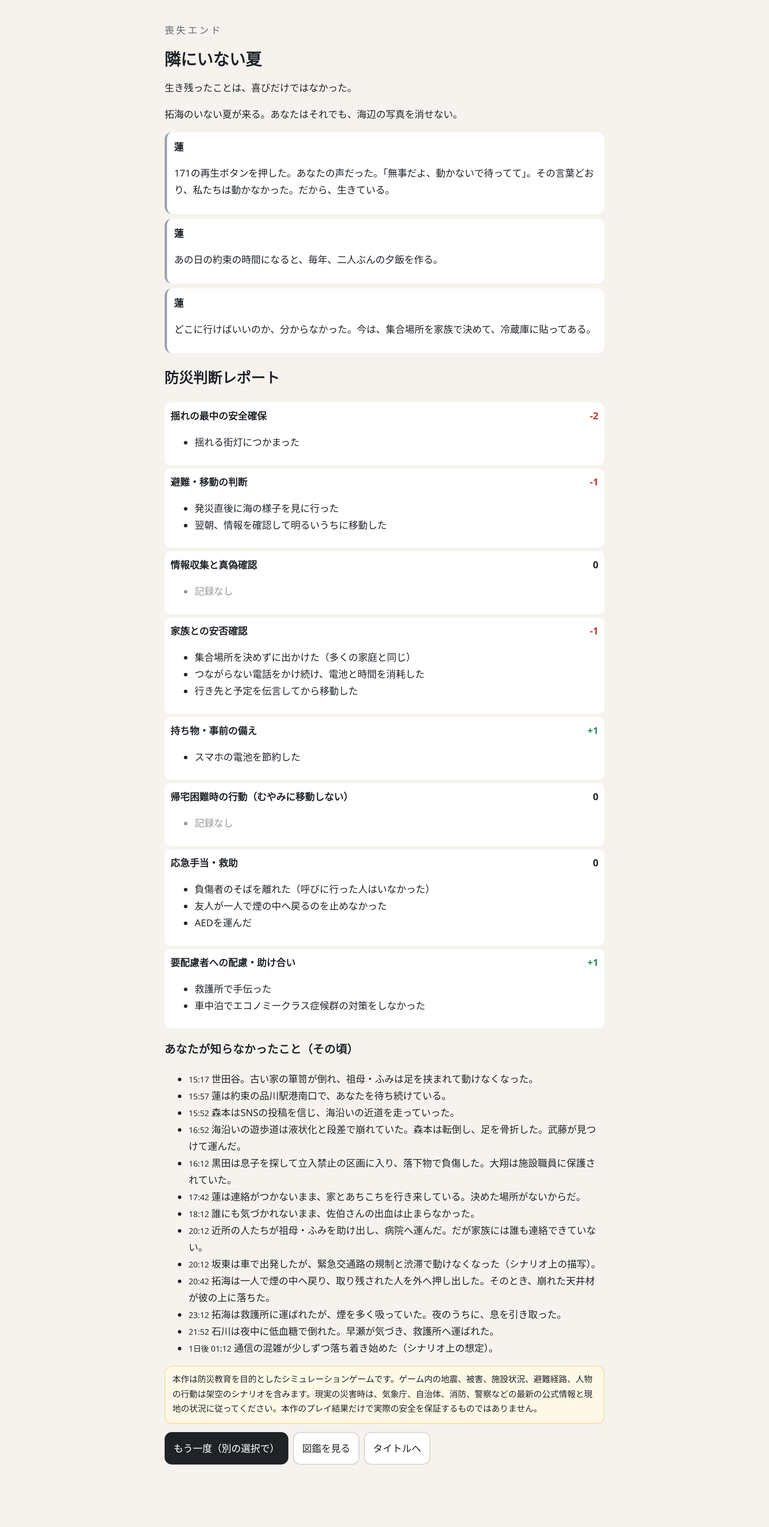
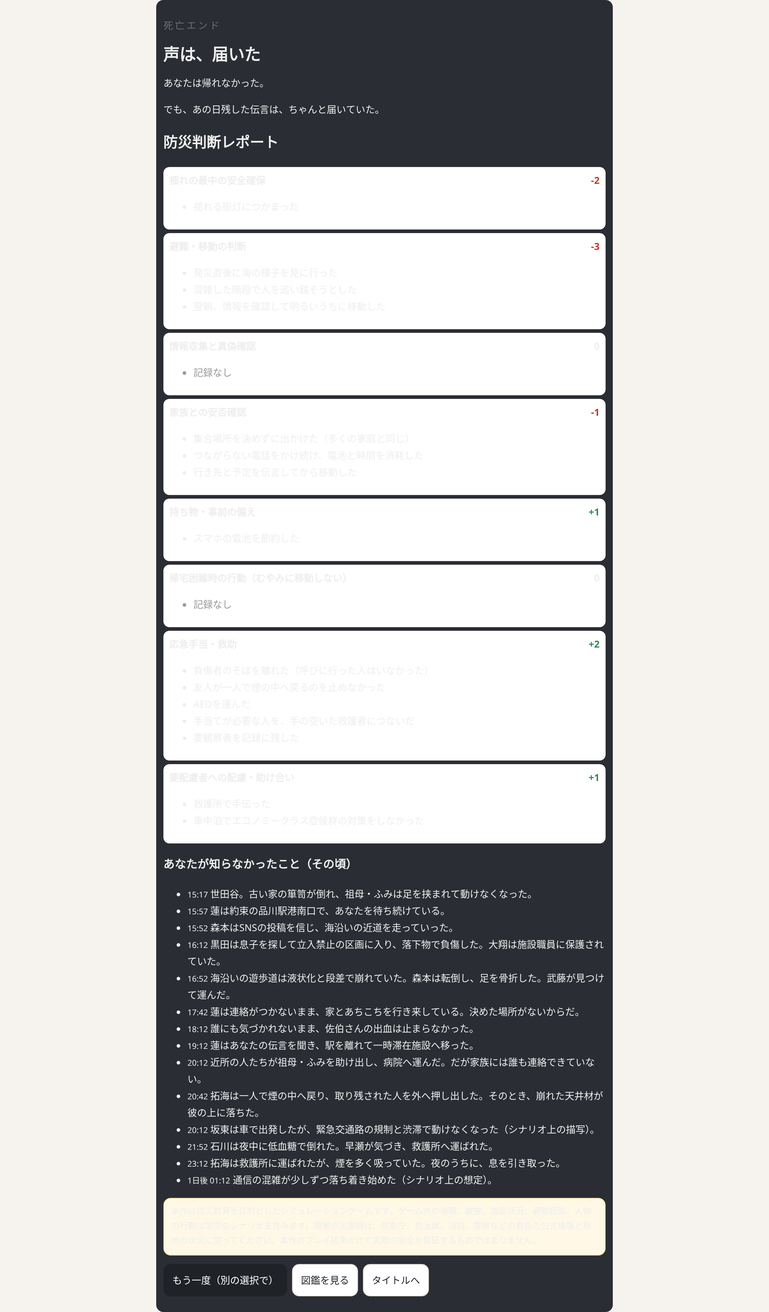
Stage2 playtime expansion: ch3 shelter evening & midnight ensemble, night walk, aid night; fix student takumi intro; COUNTS playtime table

Changed region(s): [[0.1875, 0.0, 0.8125, 1.0], [0.6562, 0.1868, 0.6875, 0.2179]]

diff --git a/src/data/scenes3z.ts b/src/data/scenes3z.ts
@@ -1,0 +1,133 @@
+import type { Scene, Choice } from '../engine/types';
+type L = Array<[string, string]>;
+const S = (id: string, chapter: number, bg: string, lines: L, o: Partial<Scene> = {}): Scene => ({ id, chapter, bg, lines, ...o });
+const C = (id: string, label: string, next: string, o: Partial<Choice> = {}): Choice => ({ id, label, next, ...o });
+
+// ============================================================
+// 第3章 段階拡張（第2段）：一時滞在施設の夕べと深夜の群像／徒歩の夜／救護所の夜
+// ※青海ホールは架空の施設。運営の細部はゲーム内の創作。
+// ============================================================
+export const ch3z: Scene[] = [
+  // ---- 一時滞在施設の夕べ（c3_hall2 → c3_hall3 → c3_hall4 → c3_eve）----
+  S('c3_hall3', 3, 'facility', [
+    ['', '午後六時を過ぎると、ホールの空気が変わった。昼間の興奮が抜けて、代わりに、長い夜を前にした静かな疲れが、床の段ボールの隙間に沈んでいく。'],
+    ['', '配給の列ができた。アルファ化米とクラッカー、五百ミリの水が一本ずつ。宮内が、のどを嗄らしながら同じ説明を繰り返している。'],
+    ['宮内', '数に限りがあります！　まず、お子さん連れの方、ご高齢の方、体調の悪い方から——すみません、順番に、順番にお願いします！'],
+    ['', '列の後ろで、誰かが舌打ちをした。「並んでたのはこっちだろ」。その声は小さかったけれど、ホールの天井は、小さな声ほどよく響かせた。'],
+  ], { onEnter: { time: 40, know: 'k_vulnerable' }, choices: [
+      C('help', '「配るの、手伝います」と宮内の隣に立つ', 'c3_hall4', { icon: '📦', effects: { flag: 'helped_ration', npc: { id: 'miyauchi', trust: 20 }, stamina: -5, report: { cat: 'care', score: 2, note: '配給で、配慮が必要な人を優先する運営を手伝った' } }, result: '手渡すたびに「ありがとう」が返ってくる。百回目くらいで、自分の分を受け取り忘れていたことに気づいた。宮内が、黙って一食、取っておいてくれていた。' }),
+      C('wait', '列の後ろに並び、自分の番を待つ', 'c3_hall4', { icon: '🧍', effects: { mental: 2 }, result: '前に並んでいた老人が、振り返って言った。「年寄りが先だなんて、悪いねえ」。悪いことなんて、ひとつもないのに。' }),
+      C('give', '配給は受け取らず、律のために持ってきたおやつの残りを二人で分ける', 'c3_hall4', { icon: '🍪', if: { item: 'kids_snack' }, effects: { report: { cat: 'care', score: 1, note: '手持ちの食料で済ませ、配給を他の人に回した' }, know: 'k_stock' }, result: '魚のビスケットが、あと六枚。律は数えて、三枚をあなたの手のひらに置いた。朝、何気なくリュックに入れたひと袋が、今日いちばん役に立った「備え」だった。' }),
+      C('give2', '配給は受け取らず、持っている非常用お菓子で済ませる', 'c3_hall4', { icon: '🍫', if: { item: 'snack' }, effects: { report: { cat: 'care', score: 1, note: '手持ちの食料で済ませ、配給を他の人に回した' }, know: 'k_stock' }, result: '鞄の底で潰れかけた、小さな箱。それが、今日いちばん役に立った「備え」だった。' }),
+    ] }),
+  S('c3_hall4', 3, 'facility', [
+    ['', '夜八時。ホールのトイレの前に、長い列ができていた。断水している、と誰かが言う。流せない便器の前で、職員が凝固剤の袋を配りはじめた（ゲーム内の施設対応）。'],
+    ['', '入口の掲示板には、日本語の手書きの張り紙だけが増えていく。「トイレの使い方」「消灯 22:00」「携帯の充電は一人15分」。'],
+    ['リン', 'すみません、これ、英語とベトナム語と……あと、やさしい日本語にしたいんです。誰か、字がきれいな人、いませんか。'],
+    ['', 'マジックペンを握った留学生が、困ったように笑っていた。名札に「グエン・リン　ボランティア」とある。'],
+  ], { onEnter: { time: 40, know: 'k_infection' }, choices: [
+      C('write', '「やさしい日本語なら書けます」と一緒に張り紙を作る', 'c3_eve', { icon: '✍', effects: { flag: 'helped_lin', npc: { id: 'lin', trust: 25 }, know: 'k_foreign', report: { cat: 'care', score: 2, note: '多言語・やさしい日本語の掲示づくりを手伝った' } }, result: '「流さないでください」を「ながさない　で　ください」に。「凝固剤」を「かためる　くすり」に。言葉を短くするほど、伝えたいことがはっきりしていく。リンは書き上がった紙を見て、「これ、わたしのおかあさんでも読めます」と言った。' }),
+      C('wash', '列に並び、ウェットティッシュで手を拭いてから食事にする', 'c3_eve', { icon: '🧻', effects: { report: { cat: 'stay', score: 1, note: '避難所で手指の衛生に気を配った' } } }),
+      C('skip', '水を飲むのを控えて、トイレに行かずに済ませる', 'c3_eve', { icon: '🚱', effects: { water: -10, risk: { kind: 'exhaustion', level: 8, label: 'トイレを我慢して水分を控え、体調を崩しかけた' }, know: 'k_dvt', report: { cat: 'stay', score: -1, note: 'トイレを避けるために水分を控えた' } }, result: '喉が渇く。けれど、あの列にもう一度並ぶのかと思うと、ペットボトルに手が伸びなかった。——それが一番危ないのだと、あとで早瀬に叱られることになる。' }),
+    ] }),
+
+  // ---- 深夜の群像（c3_eve_end / c3_takumi → c3_mid → c3_night）----
+  S('c3_mid', 3, 'night_shelter', [
+    ['', '消灯。非常灯の緑だけが、ホールの四隅に灯っている。数百人が横になっているのに、眠っている人はほとんどいない。寝返りの音、咳、押し殺した泣き声、誰かのスマホの小さな光。'],
+    ['', '眠れない人たちは、廊下や入口の風除室に、ひとり、またひとりと集まってくる。夜は長い。少しだけ、誰かの隣にいてもいい。'],
+  ], { choices: [
+      C('lin', '入口で、毛布にくるまって座っているリンの隣へ', 'c3_mid_lin', { icon: '🌏', if: { notFlag: 'mid_lin', npcAlive: 'lin' }, effects: { flag: 'mid_lin', time: 15 } }),
+      C('bando', '喫煙所の跡で、火のない煙草をくわえている坂東の隣へ', 'c3_mid_bando', { icon: '🚬', if: { flag: 'calmed_bando', notFlag: 'mid_bando', npcAlive: 'bando' }, effects: { flag: 'mid_bando', time: 15 } }),
+      C('emily', '窓際で、スマホの航空会社のページを何度も更新しているエミリーの隣へ', 'c3_mid_emily', { icon: '✈', if: { notFlag: 'mid_emily', npcAlive: 'emily' }, effects: { flag: 'mid_emily', time: 15 } }),
+      C('onodera', '授乳スペースの仕切りの外で、赤ちゃんをあやしている小野寺さんに声をかける', 'c3_mid_onodera', { icon: '🍼', if: { notFlag: 'mid_onodera', npcAlive: 'onodera' }, effects: { flag: 'mid_onodera', time: 15 } }),
+      C('ishikawa', '救護所から戻ってきた石川さんの様子を見に行く', 'c3_mid_ishikawa', { icon: '💉', if: { notFlag: 'mid_ishikawa', npcAlive: 'ishikawa' }, effects: { flag: 'mid_ishikawa', time: 15 } }),
+      C('sleep', '毛布をかぶり、目を閉じる', 'c3_night', { icon: '🌙' }),
+    ] }),
+  S('c3_mid_lin', 3, 'night_shelter', [
+    ['リン', 'あ……こんばんは。ねむれないですね。'],
+    ['リン', 'わたし、ハノイから来て、三年です。地震、はじめてじゃないです。日本に来てから、小さいのは何回も。でも、今日のは……'],
+    ['', 'リンは言葉を探して、やめた。代わりに、膝の上のスマホを見せてくれた。母親からの着信が、四十件以上並んでいる。'],
+    ['リン', 'ベトナムのニュースで、「東京が大変」って。おかあさん、ずっと電話してくる。でも、わたし、ここで通訳してたら、出られなくて。……さっき、やっと話しました。泣いてました。帰ってきなさい、って。'],
+    ['リン', '奨学金、来年もらえるか、わからないんです。帰ったら、たぶん、もう戻れない。でも、今日、ここで、わたしの言葉が役に立った。それが、すごく……うれしかった。うれしいのが、ちょっと、悪い気がして。'],
+  ], { choices: [
+      C('ok', '「悪くない。今日、ここで助かった人がいる」', 'c3_mid', { icon: '🤲', effects: { npc: { id: 'lin', trust: 20, flag: 'encouraged' }, mental: 4 }, result: 'リンは毛布で顔を半分隠して、「にほんごの『おつかれさま』、いいことばですね」と言った。' }),
+      C('quiet', '黙って、自分の毛布の端をリンの肩にかける', 'c3_mid', { icon: '🧣', effects: { npc: { id: 'lin', trust: 10 } } }),
+    ] }),
+  S('c3_mid_bando', 3, 'night_shelter', [
+    ['坂東', '……なんだ、あんたか。火はつけてねえよ。くわえてるだけだ。'],
+    ['坂東', '女房がな、去年から入院してんだ。肺だよ。俺が煙草やめねえから、ってずっと言われててさ。やめたんだよ、入院してから。なのに、こうやって、くわえてると落ち着く。'],
+    ['', '坂東は、使い古した携帯電話を開いた。待受は、病院の中庭で撮ったらしい、車椅子の女性の写真だった。'],
+    ['坂東', '病院からは、さっき連絡来た。患者は全員無事、だと。……無事、だってよ。あれだけ怒鳴って、車で突っ込もうとして、結局、俺が行ってもなんにもできなかったんだな。'],
+    ['坂東', 'あんたが止めてくれなかったら、俺、今ごろ渋滞の中で、救急車の道ふさいでたよ。女房に、一生怒られるとこだった。'],
+  ], { onEnter: { npc: { id: 'bando', trust: 15 }, mental: 3 }, next: 'c3_mid' }),
+  S('c3_mid_emily', 3, 'night_shelter', [
+    ['エミリー', '"Cancelled"……. My flight, tomorrow morning. Cancelled.'],
+    ['エミリー', 'Sorry. Perth. My mum is there. She worries a lot. I told her, "Japan is very safe, don\'t worry." Haha.'],
+    ['', 'エミリーは笑ってみせたが、目は笑っていなかった。窓の外、湾の向こうの空が、ぼんやり赤い。'],
+    ['エミリー', 'Today, many people helped me. They did not speak English, but… they pointed, they showed me, they gave me water. I will remember this. Not only the shaking. This, too.'],
+  ], { choices: [
+      C('embassy', '大使館や公式の多言語情報の探し方を、一緒に確かめる', 'c3_mid', { icon: '🌐', if: { minBattery: 10 }, effects: { battery: -3, helped: 'emily', npc: { id: 'emily', trust: 20, flag: 'info_ok' }, know: 'k_foreign', report: { cat: 'care', score: 1, note: '外国人旅行者と公式の多言語情報を確認した' } }, result: '観光客向けの公式の情報ページを開くと、エミリーは小さく息を吐いた。「OK. I can read this. Thank you.」' }),
+      C('listen', '"I\'ll remember, too." とだけ返す', 'c3_mid', { icon: '🤝', effects: { npc: { id: 'emily', trust: 10 }, mental: 3 } }),
+    ] }),
+
+  S('c3_mid_onodera', 3, 'night_shelter', [
+    ['', '段ボールの仕切りの外で、小野寺さんが、赤ちゃんを縦に抱いて小さく揺れていた。前へ、後ろへ。時計の振り子のように。'],
+    ['小野寺', '……やっと寝てくれそうで。中だと、泣き声で、まわりの方を起こしちゃうから。'],
+    ['小野寺', '夫は、今日、仕事で千葉なんです。さっき、やっと「無事」って一言だけ。……一言だけでも、こんなに違うんですね。'],
+    ['', '赤ちゃんの拳が、母親の襟元をきゅっとつかんでいる。眠っていても、離さない握り方だった。'],
+  ], { alt: [{ if: { notFlag: 'helped_onodera_any' }, goto: 'c3_mid_onodera2' }], onEnter: { npc: { id: 'onodera', trust: 10 }, mental: 3 }, next: 'c3_mid' }),
+  S('c3_mid_onodera2', 3, 'night_shelter', [
+    ['', '段ボールの仕切りの外で、小野寺さんが、赤ちゃんを縦に抱いて小さく揺れていた。前へ、後ろへ。時計の振り子のように。'],
+    ['小野寺', '……すみません、うるさいですよね。仕切りの中、もういっぱいで。'],
+    ['', 'ホールの奥では、誰かが寝返りを打つたびに、こちらを振り返る気配がした。迷惑だと思っている人ばかりではない。それでも、母親には、すべての視線が責める目に見えるのだろう。'],
+  ], { choices: [
+      C('staff', '職員に、乳児連れの人が休める場所を相談する', 'c3_mid', { icon: '🙋', effects: { helped: 'onodera', npc: { id: 'onodera', trust: 20 }, know: 'k_privacy', report: { cat: 'care', score: 2, note: '乳児連れの人が休める場所を運営に相談した' } }, result: '宮内は少し考えて、職員控室の隣の小部屋を開けてくれた。「本当はだめなんですけど……今夜だけ」。そういう「今夜だけ」が、避難所をかろうじて人の場所にしている。' }),
+      C('ok', '「ぜんぜん。赤ちゃんの声、ちょっと安心します」と言う', 'c3_mid', { icon: '🤲', effects: { npc: { id: 'onodera', trust: 10 }, mental: 2 } }),
+    ] }),
+  S('c3_mid_ishikawa', 3, 'night_shelter', [
+    ['', '石川さんは、壁にもたれて座っていた。昼間より、少しだけ顔色が戻っている。'],
+    ['石川', '救護所で、看護師さんが医療チームにつないでくれて。……お薬手帳、スマホに写真で入れておいて、本当によかった。名前も量も、すぐ伝わったから。'],
+    ['石川', '主治医にはずっと言われてたの。「薬は、一日分でいいから、いつも持ち歩いて」って。分かってたのよ。分かってたのに、今日に限って、フードコートの椅子に置いて。'],
+    ['', '石川さんは、空っぽのハンドバッグを膝の上でたたんだ。何度も、何度も、角をそろえるように。'],
+  ], { alt: [{ if: { notFlag: 'ishikawa_cared' }, goto: 'c3_mid_ishikawa2' }], onEnter: { know: 'k_meds', npc: { id: 'ishikawa', trust: 10 } }, next: 'c3_mid' }),
+  S('c3_mid_ishikawa2', 3, 'night_shelter', [
+    ['', '石川さんは、壁にもたれて座っていた。額に、うっすらと汗。'],
+    ['石川', '……大丈夫。朝まで、たぶん。'],
+    ['', '「たぶん」。今日いちばん聞いた言葉で、今日いちばん信用できない言葉だった。'],
+  ], { choices: [
+      C('aid', '救護所と職員に、持病の薬がないことを伝える', 'c3_mid', { icon: '💉', effects: { helped: 'ishikawa', flag: 'ishikawa_cared', npc: { id: 'ishikawa', trust: 25 }, know: ['k_meds', 'k_vulnerable'], report: { cat: 'care', score: 3, note: '持病の薬を失った人を医療につないだ' } }, result: '十五分後、早瀬が懐中電灯を手にやってきた。「どうしてもっと早く言わないの」。叱る声が、ひどくやさしかった。' }),
+      C('water', '水を渡し、朝まで様子を見ることにする', 'c3_mid', { icon: '💧', effects: { npc: { id: 'ishikawa', trust: 5 }, mental: -3 } }),
+    ] }),
+
+  // ---- 徒歩の夜（c3_walk2 → c3_walk2c → c3_walk3）----
+  S('c3_walk2c', 3, 'walk_night', [
+    ['', '光のない街を、人の列だけが流れていく。誰もしゃべらない。靴底がアスファルトを擦る音が、何千と重なって、遠い雨の音のように聞こえた。'],
+    ['', '街灯の消えた交差点では、警察官が赤い誘導灯を振っていた。信号が消えると、街はこんなにも、人の手でしか動かなくなる。'],
+    ['', '歩道の縁石に、年配の女性が一人、座り込んでいた。薄いカーディガン一枚。肩が小刻みに震えている。列は、彼女を避けるように、少しだけ膨らんで流れていく。'],
+    ['女性', '……大丈夫、大丈夫よ。ちょっと休んでるだけ。もう少ししたら、また歩くから。'],
+  ], { fx: 'dark', onEnter: { time: 30, know: 'k_hypothermia' }, choices: [
+      C('blanket', '自分の毛布かアルミシートを渡し、近くの支援拠点まで一緒に歩く', 'c3_walk3', { icon: '🧣', if: { item: 'blanket' }, effects: { time: 30, stamina: -6, report: { cat: 'care', score: 3, note: '夜間徒歩の途中で冷えていた高齢者を支援拠点につないだ' } }, result: '女性は「孫の家まで行くつもりだったの」と言った。支援拠点のコンビニの店員が、奥の椅子をすすめてくれた。別れぎわ、女性はあなたの手を、両手で長いこと握っていた。' }),
+      C('tell', '警察官に女性のことを伝えてから、先へ進む', 'c3_walk3', { icon: '👮', effects: { time: 10, report: { cat: 'care', score: 2, note: '動けなくなった人を、その場の警察官につないだ' } }, result: '警察官は誘導灯を同僚に預け、女性のもとへしゃがみ込んだ。振り返ると、二人の姿はもう人の列に隠れていた。' }),
+      C('pass', '「大丈夫」という言葉を信じて、通り過ぎる', 'c3_walk3', { icon: '🚶', effects: { mental: -8 }, result: '十歩、二十歩。振り返らなかった。その「大丈夫」は、たぶん、あなたが今日、家族に送った「大丈夫」と同じ種類のものだった。' }),
+    ] }),
+
+  // ---- 救護所の夜（c3_aid / c3p_aid → c3_aid_mid → c3_aid2）----
+  S('c3_aid_mid', 3, 'aid', [
+    ['', '夜十時。ブルーシートの上は、いつのまにか満員になっていた。投光器の白い光が、人の顔を一様に青ざめて見せる。'],
+    ['', '腕に火傷を負った男性が運ばれてきた。倉庫の火を消そうとして、と付き添いが言う。早瀬は別の患者の止血で手が離せない。'],
+    ['早瀬', '水！　きれいな水で、とにかく冷やして。服が貼りついてたら、無理にはがさないで！'],
+    ['', '手元のペットボトルは、今夜、救護所で飲むための水だった。'],
+  ], { onEnter: { time: 60, know: 'k_burn' }, choices: [
+      C('cool', '飲み水のボトルを開け、火傷を冷やし続ける', 'c3_aid_mid2', { icon: '💧', effects: { water: -15, flag: 'cooled_burn', npc: { id: 'hayase', trust: 10 }, report: { cat: 'aid', score: 2, note: '火傷をきれいな水で冷やす手当てを手伝った' } }, result: '男性は歯を食いしばっていたが、やがて肩の力が抜けた。「……楽になった」。空になったボトルが三本、足元に転がった。（水の少ない状況での判断は要監修）' }),
+      C('call', '大川に知らせ、手が空く人を呼びに走る', 'c3_aid_mid2', { icon: '📣', effects: { stamina: -5, report: { cat: 'aid', score: 1, note: '手当てが必要な人を、手の空いた救護者につないだ' } } }),
+    ] }),
+  S('c3_aid_mid2', 3, 'aid', [
+    ['', '深夜一時。少し落ち着いた救護所の隅で、ブルーシートに座ったまま動かない老人がいた。昼から、ずっと同じ姿勢だという。'],
+    ['早瀬', 'ふくらはぎ、痛くないですか。……ちょっと、足首を回してみましょうか。お水も、少しずつ。'],
+    ['', '早瀬は老人の足をさすりながら、こちらを見ずに言った。'],
+    ['早瀬', '狭いところでじっとしてると、脚に血の塊ができることがあるの。避難所で、あとから亡くなる人がいる。地震で助かったのに、よ。だから、ここでは「休んで」と「動いて」を、両方言うの。'],
+  ], { onEnter: { time: 60, know: 'k_dvt' }, choices: [
+      C('walk', '老人に肩を貸し、救護所の周りをゆっくり一周する', 'c3_aid2', { icon: '🚶', effects: { npc: { id: 'hayase', trust: 10 }, report: { cat: 'care', score: 1, note: '長時間同じ姿勢の高齢者の運動を手伝った' } }, result: '一周するのに十五分かかった。老人は「若いころは、この埋立地を一日に何往復もしたもんだ」と笑った。' }),
+      C('note', '記録に「長時間同姿勢・要観察」と書き添える', 'c3_aid2', { icon: '📝', effects: { report: { cat: 'aid', score: 1, note: '要観察者を記録に残した' } } }),
+    ] }),
+];

diff --git a/src/data/scenes2.ts b/src/data/scenes2.ts
@@ -50,10 +50,10 @@ export const ch3: Scene[] = [
     ['小野寺', '（赤ちゃんを抱いて）すみません……ミルクのお湯って、どこかに……'],
     ['石川', '（青い顔で）……薬、モールに置いてきてしまって。'],
   ], { choices: [
-      C('emily', 'エミリーとリンをつなぎ、多言語の公式情報を一緒に探す', 'c3_eve', { icon: '🌏', effects: { helped: 'emily', time: 30, npc: [{ id: 'emily', trust: 30 }, { id: 'lin', trust: 20 }], know: 'k_foreign', report: { cat: 'care', score: 2, note: '外国人旅行者に情報支援をつないだ' } } }),
-      C('mana', '小野寺さんのために授乳・休憩スペースを職員に頼む', 'c3_eve', { icon: '🍼', effects: { helped: 'onodera', time: 30, npc: { id: 'onodera', trust: 30 }, know: ['k_vulnerable', 'k_privacy'], report: { cat: 'care', score: 2, note: '乳児連れの母親のスペース確保を運営に頼んだ' } } }),
-      C('ishikawa', '石川さんの持病を職員と救護所に伝える', 'c3_eve', { icon: '💉', effects: { helped: 'ishikawa', time: 30, npc: { id: 'ishikawa', trust: 30 }, know: ['k_meds', 'k_vulnerable'], report: { cat: 'care', score: 3, note: '持病の薬を失った人を医療につないだ' } } }),
-      C('rest', '自分も限界だ。横になる', 'c3_eve', { icon: '😴', effects: { stamina: 20, time: 30 } }),
+      C('emily', 'エミリーとリンをつなぎ、多言語の公式情報を一緒に探す', 'c3_hall3', { icon: '🌏', effects: { helped: 'emily', time: 30, npc: [{ id: 'emily', trust: 30 }, { id: 'lin', trust: 20 }], know: 'k_foreign', report: { cat: 'care', score: 2, note: '外国人旅行者に情報支援をつないだ' } } }),
+      C('mana', '小野寺さんのために授乳・休憩スペースを職員に頼む', 'c3_hall3', { icon: '🍼', effects: { helped: 'onodera', flag: 'helped_onodera_any', time: 30, npc: { id: 'onodera', trust: 30 }, know: ['k_vulnerable', 'k_privacy'], report: { cat: 'care', score: 2, note: '乳児連れの母親のスペース確保を運営に頼んだ' } } }),
+      C('ishikawa', '石川さんの持病を職員と救護所に伝える', 'c3_hall3', { icon: '💉', effects: { helped: 'ishikawa', flag: 'ishikawa_cared', time: 30, npc: { id: 'ishikawa', trust: 30 }, know: ['k_meds', 'k_vulnerable'], report: { cat: 'care', score: 3, note: '持病の薬を失った人を医療につないだ' } } }),
+      C('rest', '自分も限界だ。横になる', 'c3_hall3', { icon: '😴', effects: { stamina: 20, time: 30 } }),
     ] }),
   S('c3_night', 3, 'night_shelter', [
     ['', '深夜。また揺れる。余震だ。誰かが小さく悲鳴を上げ、すぐに静かになった。'],
@@ -83,15 +83,17 @@ export const ch3: Scene[] = [
       C('turn', 'これは無理だ。一時滞在施設へ引き返す', 'c3_hall', { icon: '↩', effects: { unflag: 'walking', loc: 'aomi_hall', time: 50, flag: ['stay_decided', 'turned_back'], report: { cat: 'stay', score: 2, note: '徒歩帰宅の途中で状況を見て引き返した' } } }),
     ] }),
   S('c3_walk2', 3, 'walk_night', [
-    ['', '日が落ちた。停電で信号も街灯も消えている。'],
+    ['', 'すっかり暗くなった。停電で信号も街灯も消えている。'],
     ['', 'コンビニの前に「災害時帰宅支援ステーション」のステッカー（ゲーム内の架空店舗）。水道水とトイレを貸している。'],
   ], { fx: 'dark', onEnter: { time: 120, know: 'k_walk_home' }, choices: [
-      C('rest', '水をもらい、トイレを借りて休む', 'c3_walk3', { icon: '🚰', effects: { water: 30, stamina: 15, time: 40, report: { cat: 'evac', score: 1, note: '徒歩中に支援拠点で休息と水分補給をした' } } }),
-      C('push', '休まず歩き続ける', 'c3_walk3', { icon: '🏃', effects: { time: 10, risk: { kind: 'exhaustion', level: 14, label: '暗い歩道の段差で足をひねった' }, report: { cat: 'evac', score: -1, note: '夜間に休まず歩き続けた' } } }),
+      C('rest', '水をもらい、トイレを借りて休む', 'c3_walk2c', { icon: '🚰', effects: { water: 30, stamina: 15, time: 40, report: { cat: 'evac', score: 1, note: '徒歩中に支援拠点で休息と水分補給をした' } } }),
+      C('push', '休まず歩き続ける', 'c3_walk2c', { icon: '🏃', effects: { time: 10, risk: { kind: 'exhaustion', level: 14, label: '暗い歩道の段差で足をひねった' }, report: { cat: 'evac', score: -1, note: '夜間に休まず歩き続けた' } } }),
     ] }),
   S('c3_walk3', 3, 'walk_night', [
     ['', '運河を渡る橋の手前。向こう岸の空が赤い。火災の煙が、風に乗ってこちらへ流れてくる。'],
-    ['', '「この先、通れるらしい」と誰かが言う。根拠は分からない。'],
+    ['', '橋の上には、人が詰まっていた。立ち止まった人と、引き返してくる人と、それでも進もうとする人。三つの流れが、欄干のあいだでぶつかり合っている。'],
+    ['', '「この先、通れるらしい」と誰かが言う。根拠は分からない。別の誰かが「向こうは燃えてるって」と言う。それにも、根拠はない。'],
+    ['', 'スマホの電池は、もう心もとない。明るい情報も暗い情報も、同じ小さな画面の中で、同じ大きさの文字で流れていく。いま、この橋の上で、正しいことを知っている人は、たぶん一人もいない。'],
   ], { fx: 'dark', onEnter: { time: 60, know: 'k_smoke' }, choices: [
       C('detour', '風上へ大きく迂回する（2時間余計にかかる）', 'c4_dawn_walk', { icon: '↪', effects: { time: 120, stamina: -12, water: -10, report: { cat: 'evac', score: 2, note: '火災の煙を避けて迂回した' } } }),
       C('through', '煙の中を突っ切る', 'c4_dawn_walk', { icon: '🔥', effects: { time: 30, risk: { kind: 'fire', level: 30, label: '煙と熱気の中を通過した' }, report: { cat: 'evac', score: -3, note: '火災の煙の中を突っ切った' } } }),
@@ -101,11 +103,12 @@ export const ch3: Scene[] = [
   S('c3_aid', 3, 'aid', [
     ['', '臨時の救護所。ブルーシートの上に負傷者が並ぶ。'],
     ['早瀬', 'ここでは、重い人から順に診ます。あなたは記録と水をお願い。'],
-    ['', '運ばれてきた男性は、数時間、瓦礫に脚を挟まれていたという。'],
+    ['', '投光器が一台、発電機の低い唸りとともに点いた。白い光の輪の中だけが、世界のすべてみたいに見える。輪の外の暗がりから、次の担架が、また次の担架が、現れては光の中に置かれていく。'],
+    ['', '運ばれてきた男性は、数時間、瓦礫に脚を挟まれていたという。顔色は悪くない。本人も「平気だ、歩ける」と言う。だからこそ怖いのだ、と早瀬の目が言っていた。'],
     ['大川', '（消防隊員・架空）挟まれていた時間が長い人は、救出後に急変することがある。医療につなぐまで目を離さないで。'],
   ], { alt: [{ if: { preset: 'parent' }, goto: 'c3p_aid' }], onEnter: { know: ['k_crush', 'k_119', 'k_aed'], flag: 'supplied', water: 20, time: 120 }, choices: [
-      C('record', '負傷者の名前と状態を記録し、家族の問い合わせに備える', 'c3_aid2', { icon: '📝', effects: { report: { cat: 'aid', score: 2, note: '救護所で記録係を務めた' }, npc: { id: 'hayase', trust: 15 } } }),
-      C('aed', 'AEDを取りに走る', 'c3_aid2', { icon: '⚡', effects: { stamina: -8, report: { cat: 'aid', score: 2, note: 'AEDを運んだ' }, flag: 'aed_run' } }),
+      C('record', '負傷者の名前と状態を記録し、家族の問い合わせに備える', 'c3_aid_mid', { icon: '📝', effects: { report: { cat: 'aid', score: 2, note: '救護所で記録係を務めた' }, npc: { id: 'hayase', trust: 15 } } }),
+      C('aed', 'AEDを取りに走る', 'c3_aid_mid', { icon: '⚡', effects: { stamina: -8, report: { cat: 'aid', score: 2, note: 'AEDを運んだ' }, flag: 'aed_run' } }),
     ] }),
   S('c3_aid2', 3, 'aid', [
     ['', '夜明け前。早瀬が、はじめて座り込んだ。'],

diff --git a/src/data/scenes3.ts b/src/data/scenes3.ts
@@ -97,15 +97,15 @@ export const ch3x: Scene[] = [
   // --- 友人・拓海の夜（生存して一緒にいる場合） ---
   R('c3_eve_end', 3, [
     { if: { npcAlive: 'friend', notFlag: ['friend_left', 'takumi_talk'] }, goto: 'c3_takumi' },
-    { if: {}, goto: 'c3_night' },
+    { if: {}, goto: 'c3_mid' },
   ]),
   S('c3_takumi', 3, 'night_shelter', [
     ['', '自販機の明かりだけが点いている廊下。拓海が、売り切れの赤いランプを見上げていた。'],
     ['拓海', 'なあ。……俺、来月から大阪なんだ。言うタイミング、ずっと探してて。今日の夜、海見ながら言うつもりだった。'],
     ['拓海', 'で、今日これだろ。昼に煙の中に戻ろうとしたの、たぶん、何かしてから行きたかったんだよな。何もしないで東京を出るのが、いやで。'],
   ], { choices: [
-      C('go', '「行けよ。で、向こうで、今日のことを誰かに話せ」', 'c3_night', { icon: '✈', effects: { flag: ['takumi_talk', 'takumi_blessed'], npc: { id: 'friend', trust: 20 }, mental: 6 }, result: '拓海は鼻をすすって、「お前、たまにいいこと言うよな」と笑った。' }),
-      C('quiet', '何も言わず、自販機の前に並んで座る', 'c3_night', { icon: '🌌', effects: { flag: 'takumi_talk', npc: { id: 'friend', trust: 10 }, mental: 4 }, result: '余震が来て、二人同時に壁に手をついた。それがなぜか可笑しくて、少しだけ笑った。' }),
+      C('go', '「行けよ。で、向こうで、今日のことを誰かに話せ」', 'c3_mid', { icon: '✈', effects: { flag: ['takumi_talk', 'takumi_blessed'], npc: { id: 'friend', trust: 20 }, mental: 6 }, result: '拓海は鼻をすすって、「お前、たまにいいこと言うよな」と笑った。' }),
+      C('quiet', '何も言わず、自販機の前に並んで座る', 'c3_mid', { icon: '🌌', effects: { flag: 'takumi_talk', npc: { id: 'friend', trust: 10 }, mental: 4 }, result: '余震が来て、二人同時に壁に手をついた。それがなぜか可笑しくて、少しだけ笑った。' }),
     ] }),
 
   // --- 徒歩：プリセット別の入口 ---
@@ -129,7 +129,7 @@ export const ch3x: Scene[] = [
   R('c3_walk2b', 3, [
     { if: { preset: 'worker', notFlag: 'calmed_bando' }, goto: 'c3w_bando' },
     { if: { preset: 'worker' }, goto: 'c3w_station' },
-    { if: {}, goto: 'c3_walk3' },
+    { if: {}, goto: 'c3_walk2' },
   ]),
   S('c3w_bando', 3, 'walk_night', [
     ['', '東雲のあたり。動かない車の列が、赤いテールランプの川になっている。'],
@@ -144,7 +144,7 @@ export const ch3x: Scene[] = [
     ['', '辰巳を抜けると、道は運河にぶつかる。橋のたもとに、人が小さな群れになって座り込んでいた。'],
     ['', '誰かがラジオを持っている。音量を絞った声が、知らない区の火災を読み上げる（ゲーム内の架空の放送）。'],
     ['', '南砂まで、あと数キロ。地図を見なくても分かる距離に来て、足が初めて止まった。ここまで、千夏と陽菜のことしか考えていなかった。この先にある自分の街が、どうなっているのかを、考えるのが怖かった。'],
-  ], { fx: 'dark', onEnter: { time: 20 }, next: 'c3_walk3' }),
+  ], { fx: 'dark', onEnter: { time: 20 }, next: 'c3_walk2' }),
 
   // --- 救護所：父親は律を連れている ---
   S('c3p_aid', 3, 'aid', [
@@ -152,8 +152,8 @@ export const ch3x: Scene[] = [
     ['早瀬', '子連れで手伝うの？　……じゃあ、ここから動かずにできることを。記録と、水の配布。お子さんから目を離さない範囲で。'],
     ['大川', '（消防隊員・架空）挟まれていた時間が長い人は、救出後に急変することがある。医療につなぐまで目を離さないで。'],
   ], { onEnter: { know: ['k_crush', 'k_119', 'k_aed'], flag: 'supplied', water: 20, time: 120 }, choices: [
-      C('record', '律の隣で、負傷者の名前と状態を記録する', 'c3_aid2', { icon: '📝', effects: { report: { cat: 'aid', score: 2, note: '子どもから目を離さずにできる救護の手伝いをした' }, npc: { id: 'hayase', trust: 15 } } }),
-      C('rest', '律が起きたときにそばにいるため、横で休む', 'c3_aid2', { icon: '😴', effects: { stamina: 15, npc: { id: 'fam2', trust: 10 } } }),
+      C('record', '律の隣で、負傷者の名前と状態を記録する', 'c3_aid_mid', { icon: '📝', effects: { report: { cat: 'aid', score: 2, note: '子どもから目を離さずにできる救護の手伝いをした' }, npc: { id: 'hayase', trust: 15 } } }),
+      C('rest', '律が起きたときにそばにいるため、横で休む', 'c3_aid_mid', { icon: '😴', effects: { stamina: 15, npc: { id: 'fam2', trust: 10 } } }),
     ] }),
 ];
 

diff --git a/src/data/index.ts b/src/data/index.ts
@@ -4,9 +4,10 @@ import { knowledge } from './knowledge';
 import { sources } from './sources';
 import { ch0, ch1, ch2 } from './scenes1';
 import { ch3, ch4, ch5 } from './scenes2';
+import { ch3z } from './scenes3z';
 import { ch0x, ch1x, ch2x } from './scenes0x';
 import { ch3x, ch3y, ch4x, ch5x } from './scenes3';
 import { info, photos, endings, after } from './misc';
 const scenes: Record<string, Scene> = {};
-for (const sc of [...ch0, ...ch0x, ...ch1, ...ch1x, ...ch2, ...ch2x, ...ch3, ...ch3x, ...ch3y, ...ch4, ...ch4x, ...ch5, ...ch5x]) { if (scenes[sc.id]) throw new Error('dup scene ' + sc.id); scenes[sc.id] = sc; }
+for (const sc of [...ch0, ...ch0x, ...ch1, ...ch1x, ...ch2, ...ch2x, ...ch3, ...ch3x, ...ch3y, ...ch3z, ...ch4, ...ch4x, ...ch5, ...ch5x]) { if (scenes[sc.id]) throw new Error('dup scene ' + sc.id); scenes[sc.id] = sc; }
 export const DB = { presets, items, injuries, hazardInjury, reportCats, npcs, npcRules, locs, edges, knowledge, sources, info, photos, endings, after, scenes, start: 'c0_open' };

diff --git a/src/data/scenes1.ts b/src/data/scenes1.ts
@@ -16,7 +16,7 @@ export const ch0: Scene[] = [
       C('maybe', '「仕事次第かな」', 'c0w_m1', { icon: '🤷', effects: { mental: -2 } }),
     ] }),
   S('c0_open_st', 0, 'morning_home', [
-    ['', '{me}、二十歳。今日は授業が休講で、昼から友人の拓海とお台場へ行く。'],
+    ['', '{me}、二十歳。今日は授業が休講で、昼から、サークルのOBで十四歳上の先輩・拓海とお台場へ行く。'],
     ['{fam1}', '（メッセージ）夜7時、{meet}ね。遅刻したら罰ゲーム'],
     ['{fam2}', '葵ちゃん、帰りにまたお茶飲みにおいで。羊羹あるから。'],
   ], { choices: [

diff --git a/docs/COUNTS.md b/docs/COUNTS.md
@@ -4,11 +4,11 @@
 
 | 項目 | 生成 | 実装 | テスト | 企画目標 |
 |---|---|---|---|---|
-| シーン | 147 | 147（整合性テストで全遷移先が存在） | 600回ランダムプレイで通過 | — |
-| 選択肢 | 156 | 156 | 遷移先の存在を全件検査 | — |
+| シーン | 198 | 198（整合性テストで全遷移先が存在） | 600回ランダムプレイで通過 | — |
+| 選択肢 | 223 | 223 | 遷移先の存在を全件検査 | — |
 | 人物 | 18 | 18 | 参照整合性 | — |
 | 自律行動ルール | 22 | 22 | ランダムプレイで発火 | — |
-| 防災知識 | 51 | 48件がシーンから参照 | 出典ID整合性 | 10,000件規模 → **未達** |
+| 防災知識 | 51 | 49件がシーンから参照 | 出典ID整合性 | 10,000件規模 → **未達** |
 | 出典 | 31 | 31 | URL HTTP200（2026-10-31） | — |
 | 情報投稿（公式/SNS等） | 10 | 10 | 架空公式の表示ラベル検査 | — |
 | エンディング | 10 | 10 | 600回中10種すべて到達 | — |
@@ -17,8 +17,20 @@
 | 持ち物 | 22 | 22 | — | — |
 | 負傷の種類 | 8 | 8 | — | — |
 | 写真 | 2 | 2 | — | — |
-| 台詞・本文行 | 約373 | 373 | — | — |
+| 台詞・本文行 | 約546 | 546 | — | — |
 
 数値は `npx vite-node scripts/counts.ts`（docs/counts.json）による自動集計。
 
-補足：`npx vite-node scripts/coverage.ts` で3プリセット×4000回のランダムプレイ（エンディング分布・死亡数・未到達シーン・未取得知識）を集計できる。分岐専用のルーターシーンは画面に表示されないため「未到達」に出る。2026-10-31時点で12000回中10種すべて到達、死亡3461回（約29%、拡張前は約27%）。
+補足：`npx vite-node scripts/coverage.ts` で3プリセット×4000回のランダムプレイ（エンディング分布・死亡数・未到達シーン・未取得知識）を集計できる。分岐専用のルーターシーンは画面に表示されないため「未到達」に出る。2026-10-31時点で12000回中10種すべて到達、死亡3854回（約32%、拡張前は約27%）。
+
+## 推定プレイ時間（`N=800 npx vite-node scripts/playtime.ts`）
+
+ランダムプレイで表示される本文・選択肢・結果文の文字数を数え、450字/分＋選択10秒＋送り1.5秒で換算した推定。実際の読書速度で前後する。
+
+| 段階 | 会社員 平均/生存平均/最長 | 大学生 | 父親 |
+|---|---|---|---|
+| 拡張前 | 17.4 / 20.8 / 25.8分 | 16.6 / 18.4 / 21.7分 | 17.1 / 19.1 / 22.5分 |
+| 第1段（序章〜第2章） | 25.8 / 30.0 / 36.9分 | 24.6 / 26.9 / 32.5分 | 25.6 / 28.5 / 34.0分 |
+| 第2段（第3章） | 28.5 / 33.8 / 46.0分 | 27.7 / 31.0 / 42.5分 | 28.4 / 32.4 / 42.7分 |
+
+目標の2〜3時間には**未達**（第3段以降で継続）。

diff --git a/docs/KNOWN_ISSUES.md b/docs/KNOWN_ISSUES.md
@@ -21,6 +21,12 @@
 - 推定プレイ時間（scripts/playtime.ts, N=800, 450字/分モデル）: 平均 約17分 → 約25分。目標2〜3時間に向け第3〜5章を段階拡張予定。
 - モール内AED案内・企業の安否確認システム・迷子案内所は架空の施設対応として表記。
 - c2p_cut2 のトリアージ描写は「要監修」。
-- 学生編：葵(20)と拓海(34)の関係は「サークルOBの先輩」に統一（旧テキストの「友人」表記が一部残る）。
+- 学生編：葵(20)と拓海(34)の関係は「サークルOBの先輩」に統一（学生編の導入文の「友人」表記は第2段で修正。c1の共通台詞「拓海、伏せろ！」など呼び捨ては共通シーンのため残る）。
 - 親編は c0_commute / c0_walk / c0_before（拓海登場）を通らない経路に変更（c0p_before）。
 - 死亡率 約29% → 約31%（12000局中3708）。
+
+## 段階拡張 第2段（第3章）
+- 一時滞在施設の夕べ（配給・トイレ/衛生・多言語掲示）、深夜の群像ハブ（リン／坂東／エミリー／小野寺／石川）、徒歩の夜（冷えた高齢者）、救護所の夜（火傷・長時間同姿勢）を追加。施設運営の細部（凝固剤配布・充電ルール・小部屋の開放）はゲーム内の創作。
+- 火傷を飲み水で冷やす判断は「要監修」と本文に明記（k_burn も要監修）。
+- 第3章の文字数は約2倍（目標3倍には未達）。死亡率 約31%→約32%。
+- e2eはランダム経路のため実行ごとに件数が変動（26〜38件、いずれも全件PASS）。
